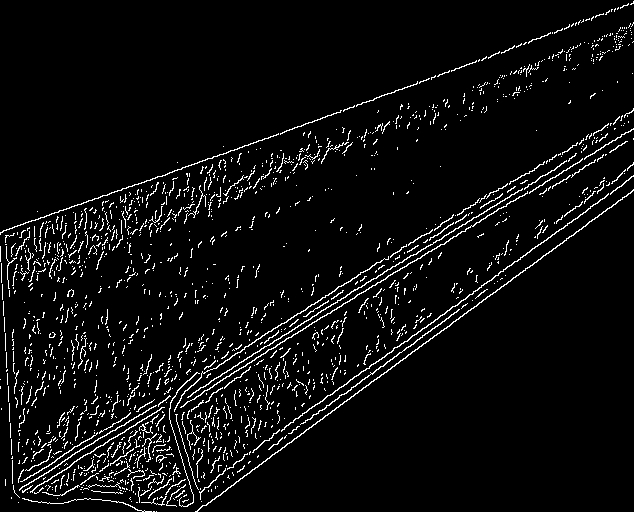
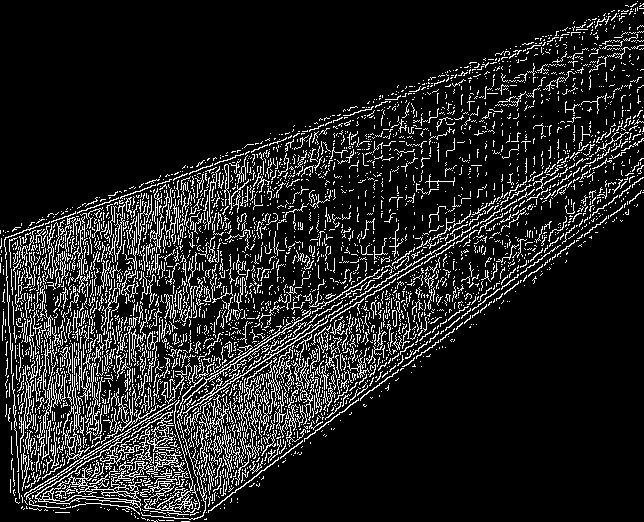
GAUSSIAN FILTER NOT WORKING

Changed region(s): [[0.0, 0.0, 1.0, 1.0]]

diff --git a/src/gaussianFilter.cc b/src/gaussianFilter.cc
@@ -5,13 +5,13 @@
 #include <cmath>
 
 // We create a function to reduce the noise of the image
-void Image::applyGaussianFilter(int kernelSize) {
+void Image::applyGaussianFilter(unsigned int kernelSize) {
 
   // We check the kernel size
-  if(kernelSize <= 0) {
+  if(kernelSize == 0) {
     throw std::runtime_error("Error : in Image::applyGaussianFilter : The kernel size must be at least 1");
   }
-  else if(kernelSize * 2 + 1 > int(height) || kernelSize * 2 + 1 > int(width)) {
+  else if(kernelSize * 2 + 1 > static_cast<unsigned int>(height) || kernelSize * 2 + 1 > static_cast<unsigned int>(width)) {
     throw std::runtime_error("Error : in Image::applyGaussianFilter : The kernel size is to big for this image");
   }
 
@@ -26,14 +26,14 @@ void Image::applyGaussianFilter(int kernelSize) {
   double sum = 0.0;
 
   // We apply the algorythm to compute the gaussian weights
-  for(int i = -(kernelSize); i <= kernelSize; i++) {
-    for(int j = -(kernelSize); j <= kernelSize; j++) {
+  for(unsigned int i = -(kernelSize); i <= kernelSize; i++) {
+    for(unsigned int j = -(kernelSize); j <= kernelSize; j++) {
       kernel[i + kernelSize][j + kernelSize] = exp( -(pow(i, 2) + pow(j, 2)) / (2 * pow(sigma, 2))) / (2 * M_PI * pow(sigma, 2) );
       sum = sum + kernel[i + kernelSize][j + kernelSize];
     }
   }
-  for(int i = -(kernelSize); i <= kernelSize; i++) {
-    for(int j = -(kernelSize); j <= kernelSize; j++) {
+  for(unsigned int i = -(kernelSize); i <= kernelSize; i++) {
+    for(unsigned int j = -(kernelSize); j <= kernelSize; j++) {
       kernel[i + kernelSize][j + kernelSize] = kernel[i + kernelSize][j + kernelSize] / sum;
     }
   }
@@ -65,8 +65,8 @@ void Image::applyGaussianFilter(int kernelSize) {
         std::vector<std::vector<uint8_t>> averagePixels (kernelSize * 2 + 1, std::vector<uint8_t>(kernelSize * 2 + 1));
 
         // We get the values
-        for(int l = -(kernelSize); l <= kernelSize; l++) {
-          for(int m = -(kernelSize); m <= kernelSize; m++) {
+        for(unsigned int l = -(kernelSize); l <= kernelSize; l++) {
+          for(unsigned int m = -(kernelSize); m <= kernelSize; m++) {
             averagePixels[l + kernelSize][m + kernelSize] = pixels[i + l][(j + m) * pixelSize + k];
           }
         }
@@ -75,8 +75,8 @@ void Image::applyGaussianFilter(int kernelSize) {
         float average = 0;
 
         // We compute the average using the gaussian weights
-        for(int l = 0; l < kernelSize * 2 + 1; l++) {
-          for(int m = 0; m < kernelSize * 2 + 1; m++) {
+        for(unsigned int l = 0; l < kernelSize * 2 + 1; l++) {
+          for(unsigned int m = 0; m < kernelSize * 2 + 1; m++) {
             average = average + kernel[l][m] * averagePixels[l][m];
           }
         }

diff --git a/src/cannyFilter.cc b/src/cannyFilter.cc
@@ -4,16 +4,11 @@
 #include "graphlib.h"
 
 // We create a function to show the edge of the objects of the image
-void Image::applyCannyFilter(unsigned int highLimit, unsigned int lowLimit) {
+void Image::applyCannyFilter(unsigned int lowLimit, unsigned int highLimit) {
 
   // If the image is not a grayscale, we convert it
   if(colorSpace != 1) {
     convertToGrayscale();
-  }
-
-  // If the image has an alpha channel, we remove it
-  if(alphaUsed) {
-    removeAlphaChannel();
   }
 
   // We can't compute the gradient of the borders of the image
@@ -57,7 +52,7 @@ void Image::applyCannyFilter(unsigned int highLimit, unsigned int lowLimit) {
                         + 2 * pixels[i][j + 1]
                         + -1 * pixels[i + 1][j - 1]
                         + 1 * pixels[i + 1][j + 1]
-                      );
+                      ) / 8;
 
       float SYvalue = (-1 * pixels[i - 1][j - 1]
                         + 1 * pixels[i - 1][j + 1]
@@ -65,7 +60,7 @@ void Image::applyCannyFilter(unsigned int highLimit, unsigned int lowLimit) {
                         + 2 * pixels[i + 1][j]
                         + -1 * pixels[i + 1][j - 1]
                         + 1 * pixels[i + 1][j + 1]
-                      );
+                      ) / 8;
 
       // We define the gradient value
       gradientLine.push_back( sqrt( pow(SXvalue * pixels[i][j], 2) + pow(SYvalue * pixels[i][j], 2) ) );

diff --git a/src/graphlib.h b/src/graphlib.h
@@ -64,10 +64,10 @@ class Image {
     void applyMedianFilter(unsigned int kernelSize);
 
     // We create a function to reduce the noise of the image
-    void applyGaussianFilter(int kernelSize);
+    void applyGaussianFilter(unsigned int kernelSize);
 
     // We create a function to show the edge of the objects of the image
-    void applyCannyFilter(unsigned int highLimit, unsigned int lowLimit);
+    void applyCannyFilter(unsigned int lowLimit, unsigned int highLimit);
 
     // We create a function to return the alpha value of a pixel
     uint8_t getAlphaValue(unsigned int x, unsigned int y);

diff --git a/src/medianFilter.cc b/src/medianFilter.cc
@@ -5,7 +5,7 @@
 // We create a function to reduce the noise of the image
 void Image::applyMedianFilter(unsigned int kernelSize) {
 
-  // We check the kernel
+  // We check the kernel size
   if(kernelSize == 0) {
     throw std::runtime_error("Error : in Image::applyMedianFilter : The kernel size can't be 0");
   }

diff --git a/examples/devTest/test.cc b/examples/devTest/test.cc
@@ -8,9 +8,9 @@ int main() {
 
   myImage.convertToGrayscale();
 
-  myImage.applyGaussianFilter(5);
+  //myImage.applyGaussianFilter(3);
 
-  myImage.applyCannyFilter(1500, 3000);
+  myImage.applyCannyFilter(1, 1);
 
   myImage.saveJpegImage("output.jpg", 100);
 }
